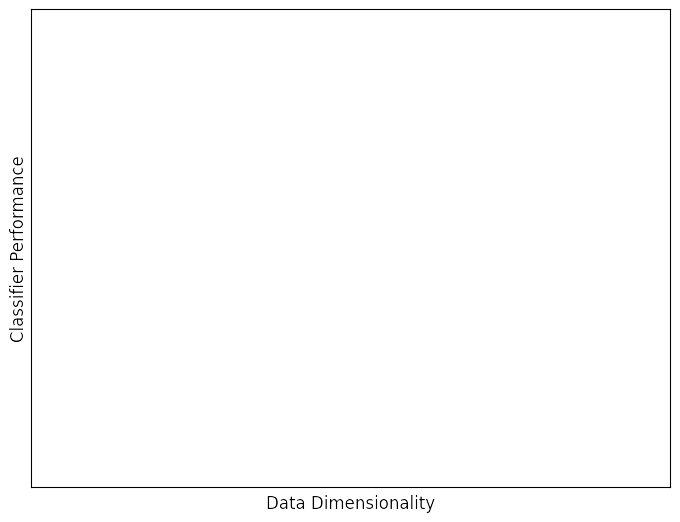
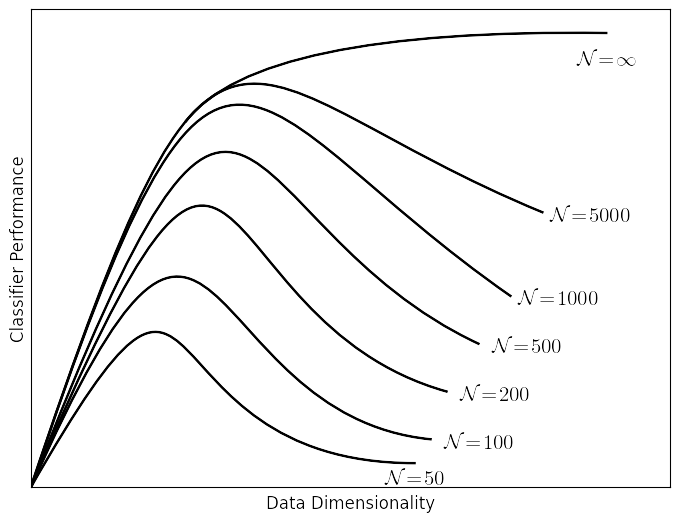
Hughes phenomenon demo completed

diff --git a/src/examples/HughesPhenomenon.py b/src/examples/HughesPhenomenon.py
@@ -1,4 +1,6 @@
 import matplotlib.gridspec as gridspec
+import matplotlib.path as mpath
+import matplotlib.patches as patches
 import matplotlib.pyplot as plt
 import numpy as np
 import sys
@@ -6,27 +8,137 @@ import sys
 import os
 parent_dir = os.path.dirname(os.path.dirname(os.path.abspath(__file__)))
 sys.path.insert(0, parent_dir)
+import addtext
 import linegraph
 
-def main(imageSaveLocation):
-    """Create an image illustrating the Hughes phenomenon.
+
+def main(figureSaveLocation):
+    """Create a demo for the Hughes Phenomenon.
     """
 
-    # Create the lines for the graph.
-
-    # Create the plot.
+    # Initialise the figure.
     currentFigure = plt.figure()
     gs = gridspec.GridSpec(10, 10)
-    gs.update(left=0, right=1, bottom=0, top=1, wspace=0.05)#, hspace=0.05)
-    plot = plt.subplot(gs[1:-1, 1:-1])
-    plot.set_xlabel('Data Dimensionality')
-    plot.set_ylabel('Classifier Performance')
-    removeTickMarks(plot, xAxis=True, yAxis=True)
+    gs.update(left=0, right=1, bottom=0, top=1, wspace=0.05)
+    axes = plt.subplot(gs[1:-1, 1:-1])
+    axes.set_xlabel('Data Dimensionality')
+    axes.set_ylabel('Classifier Performance')
+    removeTickMarks(axes, xAxis=True, yAxis=True)
+    axes.set_xlim(left=0, right=10)
+    axes.set_ylim(bottom=0, top=10)
 
-    plt.savefig(imageSaveLocation, bbox_inches='tight', transparent=True)
-    plt.show()
-	
+    # Add the worst curve.
+    curveRank1Vertx = [(0.0, 0.0),
+                       (3.0, 7.0),
+                       (1.5, 0.5),
+                       (6.0, 0.5)
+                      ]
+    curveRank1Moves = [mpath.Path.MOVETO,
+                       mpath.Path.CURVE4,
+                       mpath.Path.CURVE4,
+                       mpath.Path.CURVE4
+                      ]
+    pathCurveRank1 = mpath.Path(curveRank1Vertx, curveRank1Moves)
+    patchCurveRank1 = patches.PathPatch(pathCurveRank1, facecolor='none', lw=2)
+    axes.add_patch(patchCurveRank1)
+    axes.text(6.0, 0.25, r'$\mathcal{N}=50$', size=15, color='black', horizontalalignment='center', verticalalignment='center', rotation=0)
 
+	# Add the second worst curve.
+    curveRank2Vertx = [(0.0, 0.0),
+                       (3.0, 9.0),
+                       (2.5, 1.5),
+                       (6.25, 1.0)
+                      ]
+    curveRank2Moves = [mpath.Path.MOVETO,
+                       mpath.Path.CURVE4,
+                       mpath.Path.CURVE4,
+                       mpath.Path.CURVE4
+                      ]
+    pathCurveRank2 = mpath.Path(curveRank2Vertx, curveRank2Moves)
+    patchCurveRank2 = patches.PathPatch(pathCurveRank2, facecolor='none', lw=2)
+    axes.add_patch(patchCurveRank2)
+    axes.text(7.0, 1.0, r'$\mathcal{N}=100$', size=15, color='black', horizontalalignment='center', verticalalignment='center', rotation=0)
+
+	# Add the third worst curve.
+    curveRank3Vertx = [(0.0, 0.0),
+                       (3.5, 11.0),
+                       (2.5, 3.5),
+                       (6.5, 2.0)
+                      ]
+    curveRank3Moves = [mpath.Path.MOVETO,
+                       mpath.Path.CURVE4,
+                       mpath.Path.CURVE4,
+                       mpath.Path.CURVE4
+                      ]
+    pathCurveRank3 = mpath.Path(curveRank3Vertx, curveRank3Moves)
+    patchCurveRank3 = patches.PathPatch(pathCurveRank3, facecolor='none', lw=2)
+    axes.add_patch(patchCurveRank3)
+    axes.text(7.25, 2.0, r'$\mathcal{N}=200$', size=15, color='black', horizontalalignment='center', verticalalignment='center', rotation=0)
+
+	# Add the middle curve.
+    curveRank4Vertx = [(0.0, 0.0),
+                       (3.5, 12.0),
+                       (3.0, 5.5),
+                       (7.0, 3.0)
+                      ]
+    curveRank4Moves = [mpath.Path.MOVETO,
+                       mpath.Path.CURVE4,
+                       mpath.Path.CURVE4,
+                       mpath.Path.CURVE4
+                      ]
+    pathCurveRank4 = mpath.Path(curveRank4Vertx, curveRank4Moves)
+    patchCurveRank4 = patches.PathPatch(pathCurveRank4, facecolor='none', lw=2)
+    axes.add_patch(patchCurveRank4)
+    axes.text(7.75, 3.0, r'$\mathcal{N}=500$', size=15, color='black', horizontalalignment='center', verticalalignment='center', rotation=0)
+
+	# Add the third best curve.
+    curveRank5Vertx = [(0.0, 0.0),
+                       (3.0, 12.0),
+                       (3.2, 8.0),
+                       (7.5, 4.0)
+                      ]
+    curveRank5Moves = [mpath.Path.MOVETO,
+                       mpath.Path.CURVE4,
+                       mpath.Path.CURVE4,
+                       mpath.Path.CURVE4
+                      ]
+    pathCurveRank5 = mpath.Path(curveRank5Vertx, curveRank5Moves)
+    patchCurveRank5 = patches.PathPatch(pathCurveRank5, facecolor='none', lw=2)
+    axes.add_patch(patchCurveRank5)
+    axes.text(8.25, 4.0, r'$\mathcal{N}=1000$', size=15, color='black', horizontalalignment='center', verticalalignment='center', rotation=0)
+
+	# Add the second best curve.
+    curveRank6Vertx = [(0.0, 0.0),
+                       (3.0, 12.0),
+                       (3.0, 8.5),
+                       (8.0, 5.75)
+                      ]
+    curveRank6Moves = [mpath.Path.MOVETO,
+                       mpath.Path.CURVE4,
+                       mpath.Path.CURVE4,
+                       mpath.Path.CURVE4
+                      ]
+    pathCurveRank6 = mpath.Path(curveRank6Vertx, curveRank6Moves)
+    patchCurveRank6 = patches.PathPatch(pathCurveRank6, facecolor='none', lw=2)
+    axes.add_patch(patchCurveRank6)
+    axes.text(8.75, 5.75, r'$\mathcal{N}=5000$', size=15, color='black', horizontalalignment='center', verticalalignment='center', rotation=0)
+
+	# Add the best curve.
+    curveRank7Vertx = [(2.42691, 7.65982),
+                       (3.55, 9.6),
+                       (9.0, 9.5)
+                      ]
+    curveRank7Moves = [mpath.Path.MOVETO,
+                       mpath.Path.CURVE3,
+                       mpath.Path.CURVE3
+                      ]
+    pathCurveRank7 = mpath.Path(curveRank7Vertx, curveRank7Moves)
+    patchCurveRank7 = patches.PathPatch(pathCurveRank7, facecolor='none', lw=2)
+    axes.add_patch(patchCurveRank7)
+    axes.text(9.0, 9.0, r'$\mathcal{N}=\infty$', size=15, color='black', horizontalalignment='center', verticalalignment='center', rotation=0)
+
+    # Save the figure.
+    plt.savefig(figureSaveLocation, bbox_inches='tight', transparent=True)
 
 def removeTickMarks(axes, xAxis=False, yAxis=False):
     """Removes all tick marks.
@@ -36,7 +148,6 @@ def removeTickMarks(axes, xAxis=False, yAxis=False):
         axes.set_xticks([])
     if yAxis:
         axes.set_yticks([])
-
 
 if __name__ == '__main__':
     main(sys.argv[1])
